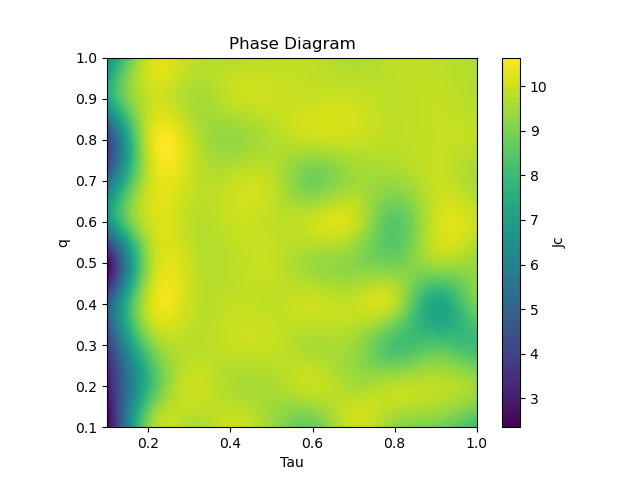
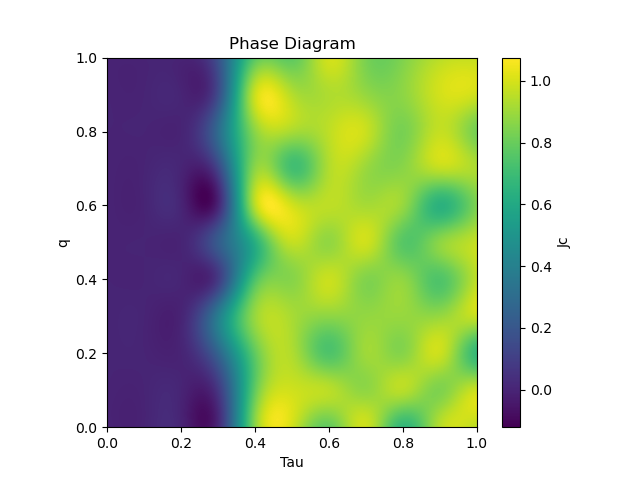
add phase diagram percolation

diff --git a/src/percolation.py b/src/percolation.py
@@ -1,7 +1,6 @@
 import networkx as nx
 import numpy as np
 
-from src.graphs import get_information_graph
 from src.utils import *
 
 
@@ -81,7 +80,7 @@ def critic_j_percolation(G: nx.Graph, tau: float, T: int) -> float:
 
 
 # TODO Fare test per tipo di grafo, per tipo di j iniziale, per tipo di tau, e per q, media e distribuzione di j
-def multiplex_percolation(IG: nx.Graph, PG: nx.graph, tau: float, T: int, q: float) -> float:
+def multiplex_percolation(IG: nx.DiGraph, PG: nx.graph, tau: float, T: int) -> float:
     """
     Multiplex percolation model
 
@@ -89,12 +88,11 @@ def multiplex_percolation(IG: nx.Graph, PG: nx.graph, tau: float, T: int, q: flo
     :param PG:
     :param tau:
     :param T:
-    :param q:
     :return:
     """
     # Initialize J values for each node
     for node in PG.nodes():
-        PG.nodes[node][j_value] = np.random.uniform(1, 10)
+        PG.nodes[node][j_value] = np.random.uniform(0, 1)
 
     for _ in range(T):
         cPG = PG.copy()
@@ -103,7 +101,7 @@ def multiplex_percolation(IG: nx.Graph, PG: nx.graph, tau: float, T: int, q: flo
             k = PG.degree(i)  # Calculate the degree of node i
             for j in PG.neighbors(i):  # Iterate over neighbors of node i in PG
                 # Count neighbors with J greater than J[j]
-                si = sum(1 for n in IG.neighbors(i) if cPG.nodes[n][j_value] >= cPG.nodes[j][j_value]) + 0.0001
+                si = sum(1 for n in IG.successors(i) if cPG.nodes[n][j_value] >= cPG.nodes[j][j_value]) + 1e-8
                 # Calculate min max term
                 r = np.random.uniform(0, 1)
                 m.append(min(cPG.nodes[j][j_value], (-(k / si) * np.log(r / tau))))

diff --git a/src/tests.py b/src/tests.py
@@ -5,7 +5,7 @@ from src.config import zero_threshold
 from src.graphs import get_information_graph
 from src.infection import get_average_graph_degree, simulated_mean_field_infection, \
     simulated_tau_percolation, simulated_j_percolation
-from src.plot import plot_critical_j, plot_critical_t, plot_q_value, plot_all_graphs
+from src.plot import plot_critical_j, plot_critical_t, plot_q_value, plot_all_graphs, plot_t_value_percolation
 from src.percolation import critic_j_percolation, simple_tau_percolation, multiplex_percolation
 from src.utils import *
 
@@ -136,15 +136,20 @@ def multiplex_percolation_critical_j_test_test(PG: nx.Graph, VG: nx.Graph, T: in
     :return: return the critical J values
     """
     results = {q_test: [], t_test: [], j_pred: []}
+    results_t = {t: {q_test: [], j_pred: []} for t in ts}
     for q in qs:
         IG = get_information_graph(PG, VG, q)
         plot_all_graphs(PG, VG, IG)
         for t in reversed(ts):
             # Calculate the jc prediction about percolation
-            jc_pred = multiplex_percolation(IG.copy(), PG.copy(), t, T, q)
+            jc_pred = multiplex_percolation(IG.copy(), PG.copy(), t, T)
             results[q_test].append(q)
             results[t_test].append(t)
             results[j_pred].append(jc_pred if jc_pred > 0 else 0)
+
+            results_t[t][q_test].append(q)
+            results_t[t][j_pred].append(jc_pred if jc_pred > 0 else 0)
             print(f"q: {round(q, 2)}, t: {round(t, 2)}, jc: {round(jc_pred, 2)}")
         print("--------------------------------------------------", end="\n\n")
     plot_q_value(results, file=q_plot)
+    plot_t_value_percolation(results_t, file=t_plot)

diff --git a/src/config.py b/src/config.py
@@ -2,16 +2,18 @@ import numpy as np
 
 from src.utils import *
 # Values for the tests
-js = np.arange(0.1, 200.1, 0.1)  # Risk perception
-ts = np.arange(0.1, 1.1, 0.1)  # Tau values
-qs = np.arange(0.1, 1.1, 0.1)  # Connection probability for Information Graph
+step = 0.1
+js = np.arange(0, 200, 0.1)  # Risk perception
+ts = np.arange(0, 1+step, step)  # Tau values
+qs = np.arange(0, 1+step, step)  # Connection probability for Information Graph
 
-iterations = 100  # Iteration
+iterations = 1000  # Iteration
 zero_threshold = 1e-6  # Zero threshold
 
 # Values for the graph
-n_nodes = 40  # Number of nodes
-m = 4  # Number of edges to attach from a new node
+n_nodes = 10  # Number of nodes
+m = 6  # Number of edges to attach from a new node
+prob_m = m / n_nodes  # Probability for random graph
 init_infect = 1  # Initial infected nodes
 percentage_init_infect = 0.5  # Initial percentage of infected nodes
 immunity = healthy  # Immunity

diff --git a/src/graphs.py b/src/graphs.py
@@ -26,7 +26,7 @@ def scale_free_graph_test(nodes: int = 5, m: int = 3, q: float = 0.5, infected: 
     Test the scale free graph
 
     :param nodes:
-    :param m:
+    :param m: average degree
     :param q:
     :param infected:
     :return:
@@ -56,7 +56,7 @@ def random_graph_test(nodes: int = 10, pPG: float = 0.4, pVG: float = 0.6, q: fl
     return PG, VG, IG
 
 
-def get_information_graph(PG: nx.Graph, VG: nx.Graph, q: float) -> nx.Graph:
+def get_information_graph(PG: nx.Graph, VG: nx.Graph, q: float) -> nx.DiGraph:
     """
     Create the information graph from the two graphs Physical and Virtual graph
 
@@ -65,7 +65,7 @@ def get_information_graph(PG: nx.Graph, VG: nx.Graph, q: float) -> nx.Graph:
     :param q: q value
     :return: return the information graph
     """
-    IG = nx.Graph()
+    IG = nx.DiGraph()
     IG.add_nodes_from(PG.nodes())
 
     for node in PG.nodes():

diff --git a/src/plot.py b/src/plot.py
@@ -128,3 +128,23 @@ def plot_q_value(critics: dict, file: str) -> None:
     plt.savefig(path_plots + file)
     plt.show()
 
+
+def plot_t_value_percolation(critics: dict, file: str) -> None:
+    """
+    Plot the value of the Information Graph
+    :param critics:
+    :param file:
+    :return:
+    """
+    plt.title("Tau values")
+    keys = list(critics.keys())
+    for i in keys:
+        plt.plot(critics[i][q_test], critics[i][j_pred], label=f"Tau: {i}", marker="o", linestyle="-")
+    plt.xlabel("Q")
+    plt.ylabel("Jc")
+    plt.legend()
+    plt.savefig(path_plots + file)
+    plt.show()
+
+
+

diff --git a/main.py b/main.py
@@ -8,8 +8,10 @@ def main():
     # GRAPHS FOR TESTS
     # PG, VG, IG = cycle_graph_test()
     # TODO: Check components graphs divided by zero
-    PG, VG, IG = random_graph_test(n_nodes, pPG=0.5, pVG=0.2, infected=init_infect)
-    # PG, VG, IG = scale_free_graph_test(nodes, m, 0.5, init_infect)
+    PG, VG, IG = random_graph_test(n_nodes, pPG=prob_m, pVG=prob_m, infected=init_infect)
+    print(get_average_graph_degree(PG))
+    print(get_average_graph_degree(VG))
+    # PG, VG, IG = scale_free_graph_test(n_nodes, m, 0.5, init_infect)
     # plot_all_graphs(PG, VG, IG)
 
     # TESTS

diff --git a/src/utils.py b/src/utils.py
@@ -23,6 +23,7 @@ approx_plot_jc_plot = "approx_critical_j.png"
 critical_j_plot = "critical_j.png"
 critical_t_plot = "critical_t.png"
 q_plot = "q_plot.png"
+t_plot = "t_plot.png"
 
 # Colors for the graph
 blue = "cornflowerblue"
